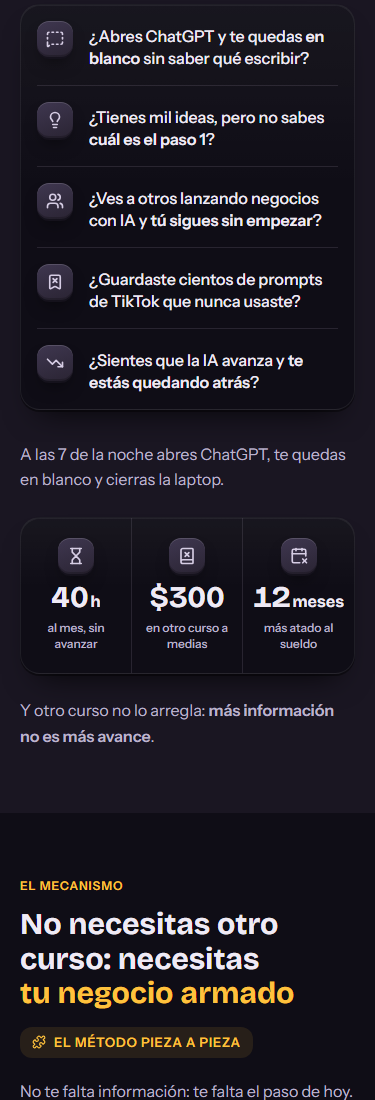
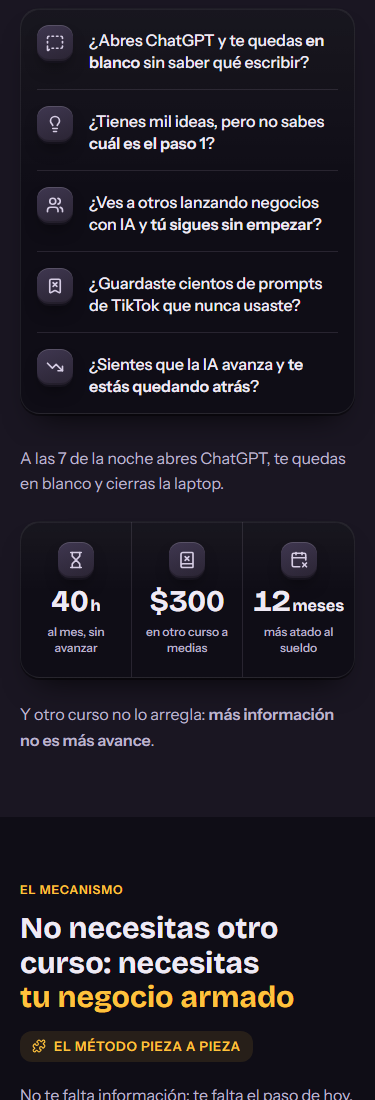
fix(landing): ancla de 1 línea, garantía sin repetir, feedback al toque, camino de nodos, fichas con radio de la ficha

diff --git a/components/landing/Solucion.tsx b/components/landing/Solucion.tsx
@@ -7,7 +7,7 @@
 // (tupla en el tipo: ni 2 ni 4) + antes/después opcional. Pasos entran
 // escalonados (whileInView + stagger, reduced-motion respetado).
 
-import { motion } from 'motion/react';
+import { motion, useReducedMotion } from 'motion/react';
 import { Check, Puzzle, X } from 'lucide-react';
 import type { LucideIcon } from 'lucide-react';
 import { Accent, CtaButton, IconChip, Kicker, SectionShell, useReveal, VIEWPORT_ONCE } from './ui';
@@ -55,6 +55,7 @@ export function Solucion({
   cta,
   id,
 }: SolucionProps) {
+  const reduce = useReducedMotion();
   warnCopy('Solución → título', tituloMarked, 8);
   warnCopy('Solución → Big Idea', bigIdeaMarked, 30);
   pasos.forEach((p, i) => warnCopy(`Solución → paso ${i + 1}`, p.detalle, 14));
@@ -91,12 +92,18 @@ export function Solucion({
         {/* 3 pasos: filas apiladas en mobile, 3 columnas en desktop */}
         <ol className="relative mt-10 grid grid-cols-1 gap-8 md:grid-cols-3">
           {/* El camino: línea punteada que une los nodos, como el mapa de la Ruta */}
-          <span
-            aria-hidden="true"
-            className="absolute top-6 bottom-6 left-[21px] border-l-2 border-dashed border-[color-mix(in_oklab,var(--accent)_35%,transparent)] md:hidden"
-          />
           {pasos.map((p, i) => (
             <motion.li key={i} variants={item} className="relative flex items-start gap-4 md:flex-col">
+              {i < pasos.length - 1 && (
+                <motion.span
+                  aria-hidden="true"
+                  initial={{ scaleY: reduce ? 1 : 0 }}
+                  whileInView={{ scaleY: 1 }}
+                  viewport={{ once: true, amount: 0.6 }}
+                  transition={{ duration: reduce ? 0 : 0.6, ease: [0.16, 1, 0.3, 1] }}
+                  className="absolute top-12 -bottom-8 left-[21px] origin-top border-l-2 border-dashed border-[color-mix(in_oklab,var(--accent)_40%,transparent)] md:hidden"
+                />
+              )}
               <span aria-hidden="true" className="relative shrink-0">
                 {p.icon ? (
                   <IconChip icon={p.icon} tone={i === pasos.length - 1 ? 'verde' : 'accent'} />

diff --git a/app/page.tsx b/app/page.tsx
@@ -75,7 +75,7 @@ export default function PaginaDeVentas() {
               { icono: MousePointerClick, texto: 'Cancelas en 1 toque' },
             ].map(({ icono: Icono, texto }) => (
               <li key={texto} className="flex flex-col items-center gap-1.5 text-center leading-tight">
-                <span className="relieve-piedra flex size-6 items-center justify-center rounded-full">
+                <span className="relieve-piedra flex size-7 items-center justify-center rounded-[var(--radius-chip)]">
                   <Icono size={13} strokeWidth={2.5} aria-hidden="true" />
                 </span>
                 {texto}
@@ -142,9 +142,9 @@ export default function PaginaDeVentas() {
         tituloMarked="Empieza gratis. Sigue por [acento]$0.22 al día[/acento]"
         trialDias={7}
         stack={{
-          lineas: [{ resultado: 'Mes a mes, un año completo te costaría', valor: '$120' }],
+          lineas: [{ resultado: 'Mes a mes', valor: '$120' }],
           totalTachado: '$120',
-          nota: 'Con el plan anual pagas $79.99 por el año.',
+          nota: 'Con el anual: $79.99',
         }}
         anual={{
           nombre: 'Anual',
@@ -171,9 +171,9 @@ export default function PaginaDeVentas() {
       <Garantia
         nombre="La Garantía de la Primera Oferta"
         condicionMarked="Si en 15 días no tienes [b]tu oferta lista[/b] o no es para ti, te devolvemos todo."
-        pisoLegal="Reembolso gestionado por Hotmart · 15 días"
+        pisoLegal="Reembolso gestionado por Hotmart"
         sellos={[
-          { icon: ShieldCheck, texto: '15 días' },
+          { icon: Wallet, texto: 'Dinero de vuelta' },
           { icon: Mail, texto: 'Solo un correo' },
           { icon: RotateCcw, texto: 'Sin preguntas' },
         ]}

diff --git a/components/landing/Oferta.tsx b/components/landing/Oferta.tsx
@@ -118,7 +118,21 @@ export function Oferta({
 
         {/* Stack de valor Hormozi — ARRIBA de los planes; el tachado es del TOTAL
             del stack (nunca un precio mensual falso inflado — 50 C5) */}
-        {stack && (
+        {stack && stack.lineas.length === 1 && (
+          <motion.p
+            variants={item}
+            className="tarjeta-relieve mx-auto mt-8 max-w-[560px] rounded-[var(--radius-card)] px-5 py-4 text-center text-[16px] text-[var(--text-secondary)]"
+          >
+            {stack.lineas[0]?.resultado}: <span className="tabular-nums line-through">{stack.totalTachado}</span> al año
+            {stack.nota && (
+              <>
+                {' · '}
+                <span className="font-semibold text-[var(--text-primary)]">{stack.nota}</span>
+              </>
+            )}
+          </motion.p>
+        )}
+        {stack && stack.lineas.length > 1 && (
           <motion.div
             variants={item}
             className="tarjeta-relieve mx-auto mt-8 max-w-[560px] rounded-[var(--radius-card)] p-6"

diff --git a/components/landing/Garantia.tsx b/components/landing/Garantia.tsx
@@ -60,7 +60,7 @@ export function Garantia({ nombre, condicionMarked, pisoLegal, icon: Icono = Shi
                       key={i}
                       className="flex flex-col items-center gap-2 rounded-[var(--radius-card)] bg-[color-mix(in_oklab,var(--accent)_10%,transparent)] px-2 py-3 shadow-[inset_0_1px_0_rgb(255_255_255/0.08)]"
                     >
-                      <span className="relieve-oro flex size-7 items-center justify-center rounded-full">
+                      <span className="relieve-oro flex size-7 items-center justify-center rounded-[var(--radius-chip,12px)]">
                         <se.icon size={14} strokeWidth={2.5} aria-hidden="true" />
                       </span>
                       <span className="text-[13px] font-semibold leading-tight text-[var(--text-primary)]">{se.texto}</span>

diff --git a/components/landing/Faq.tsx b/components/landing/Faq.tsx
@@ -71,7 +71,7 @@ export function Faq({ kicker = 'PREGUNTAS', titulo = 'Lo que quizá te estás pr
                   aria-expanded={estaAbierto}
                   aria-controls={panelId}
                   onClick={() => setAbierto(estaAbierto ? null : i)}
-                  className="flex min-h-14 w-full items-center justify-between gap-4 py-4 text-left [touch-action:manipulation]"
+                  className="flex min-h-14 w-full items-center justify-between gap-4 rounded-[var(--radius-card)] py-4 text-left transition-transform duration-100 active:scale-[0.99] [touch-action:manipulation]"
                 >
                   <span className="flex items-center gap-3">
                     {it.icon && <IconChip icon={it.icon} tone={estaAbierto ? 'accent' : 'muted'} size="sm" />}

diff --git a/components/landing/AppPorDentro.tsx b/components/landing/AppPorDentro.tsx
@@ -147,7 +147,7 @@ export function AppPorDentro({
                 onClick={() => irA(i)}
                 aria-label={`Ir a: ${f.label}`}
                 aria-current={activo === i ? 'true' : undefined}
-                className="flex size-11 items-center justify-center [touch-action:manipulation]"
+                className="flex size-11 items-center justify-center transition-transform duration-100 active:scale-125 [touch-action:manipulation]"
               >
                 <span
                   className={`size-2 rounded-full transition-colors duration-200 ${

diff --git a/docs/revisiones/landing-veredicto.md b/docs/revisiones/landing-veredicto.md
@@ -1,85 +1,87 @@
-# VEREDICTO revisor-visual — landing (página de ventas EMPRESAI) · revisión independiente (post-corrección garantía/franjas/cifras)
-Fecha: 2026-09-30 23:30
+# VEREDICTO revisor-visual — landing (página de ventas EMPRESAI) · re-revisión independiente tras corregir 5 defectos
+Fecha: 2026-10-02 10:00
 Screenshot: docs/revisiones/landing-375.png
-Usabilidad: 33/40
-Craft: 16/20
-Copy (si vende): 16/20
-Copy: 16/20
+Usabilidad: 35/40
+Craft: 17/20
+Copy (si vende): 17/20
+Copy: 17/20
 Fidelidad (si hubo referencia): N-A
 Veredicto: NO LISTA
-Top defectos: (1) §6 Oferta repite 3 veces las mismas promesas (stack + anual + mensual) y el stack "12 meses… $120 · Todo incluido en ambos planes" confunde al plan mensual · (2) el chip "el Método Pieza a Pieza" es gemelo del CTA outline del plan mensual y el canto sólido "de botón de juego" se aplica a elementos inertes (sellos, fichas) → parecen tocables y no hacen nada · (3) §9 CTA final es la única sección sin ícono ni elemento en relieve y el PS va en itálica sintética · (4) molde "tarjeta oscura + ficha a la izquierda + texto" repetido en §2, §4 pasos, §4 antes/después y §8, con cabeceras que alternan izquierda/centro sin regla · (5) sin "Entrar" para quien ya compró + rótulo "Ejemplo real" sobre un demo armado
+Top defectos: (1) §6 la caja de ancla se contradice: check de beneficio junto a "te costaría $120" + "Valor total: $̶1̶2̶0̶" tachado en la misma caja · (2) §7 "15 días" aparece 3 veces en la tarjeta de garantía · (3) §8 filas del FAQ y puntos del carrusel sin feedback de toque <150ms · (4) §4 la línea punteada del camino sigue por debajo del nodo 3 · (5) §1 franja y §7 sellos con fichas circulares fuera del sistema de chips de 12px de la ficha
 
 ## Detalle
-USABILIDAD 33/40 — h1:4 h2:4 h3:3 h4:3 h5:3 h6:4 h7:4 h8:2 h9:3 h10:3
-CRAFT 16/20 — jerarquía:3 profundidad:4 identidad:3 movimiento:3 encaje:3
-COPY 16/20 — idea:3 especificidad:3 emoción:3 oferta:3 acción:4 (ningún eje ≤2)
-Gate doble: NO PASA. La usabilidad queda en 33/40 (mínimo 36). El craft llega justo al mínimo: 16/20. Gate de copy: PASA justo (16/20).
-Gate de carga cognitiva: 1 falla, "cero elementos que parezcan interactivos y no hagan nada" (defecto 2). No es sobrecarga crítica.
-Anti-clon: no coincide con "Capítulo". Tampoco con "Umbral": el fondo es violeta-tinta #0F0D16 y no pizarra, el dorado #FFC23D es saturado y no latón, y la fuente es Bricolage y no Archivo.
-CTA héroe vivo: PASA en los 4 puntos.
-- Contraste: #0F0D16 sobre #FFC23D da ≈12:1.
-- Tiene whileTap 0.97 y hover.
-- Nunca está deshabilitado: tiene guard de doble toque y estado lento a los 8 s.
-- Mide 52-56px de alto y ocupa el ancho completo.
-FICHA-ARTE frente a la captura: la paleta, Bricolage/Instrument, el radio de 20px y el CTA en píldora coinciden. Hay un desvío menor: la franja del hero (§1) y los sellos de la garantía usan chips CIRCULARES, y la ficha pide chips de ícono de 10-14px como en el resto de la página.
+USABILIDAD 35/40 — h1:4 h2:4 h3:4 h4:3 h5:3 h6:4 h7:4 h8:3 h9:3 h10:3
+CRAFT 17/20 — jerarquía:3 profundidad:4 identidad:4 movimiento:3 encaje:3
+COPY 17/20 — idea:4 especificidad:3 emoción:3 oferta:3 acción:4 (ningún eje ≤2)
+Gate doble: NO PASA por 1 punto (35/40 < 36). El craft PASA (17/20 ≥ 16). Gate de copy: PASA (17/20).
+Gate de carga cognitiva: 0 fallas.
+- El chip del mecanismo ya es una etiqueta (fondo 10%, radio 12px, ícono Puzzle) y no se confunde con el CTA outline.
+- Los sellos ya no tienen canto.
+- Las fichas tienen canto de 2px.
+Anti-clon: no coincide con "Capítulo" ni con "Umbral". CTA héroe vivo: PASA (≈12:1 · whileTap 0.97 · nunca deshabilitado · 52-56px).
+FICHA-ARTE frente a la captura: la paleta, Bricolage/Instrument, el radio de 20px, el CTA en píldora y la firma de la Ruta (camino de nodos) coinciden. Desvío menor: siguen los chips circulares en §1 y §7.
 Sub-checks de copy:
-- Message-match: N-A (no hay creativo de origen).
-- Garantía nombrada con plazo cerca del CTA de compra: PASA. Es la sección inmediata a los planes y tiene su propio CTA. Pero la tarjeta de plan no la menciona.
-Por qué baja cada punto:
-- h8=2: la oferta ocupa ≈2,4 pantallas. "Nuevas rutas… día 30" ×3, documento descargable ×3, "7 días gratis" ×4 dentro de la sección; en la página va 8 veces.
-- h5=3: "12 meses de misiones" + "Todo incluido en ambos planes".
-- h4=3: cabeceras mixtas, chips circulares y cuadrados, CTAs de 48/52/56px.
-- h3=3: sin "Entrar".
-- Movimiento=3: las filas del FAQ y los puntos del carrusel no dan feedback de toque en menos de 150ms; solo hay rotación y despliegue de 200-280ms. El resto de las baseline está en código, con reduced-motion.
+- Message-match: N-A.
+- Garantía nombrada con plazo cerca del CTA de compra: PASA.
+
+Qué cambió frente a la pasada anterior (33 · 16 · 16):
+- h8 sube 2→3: la oferta bajó de ≈2,4 a ≈1,6 pantallas y el mensual ya no repite la lista.
+- h3 sube 3→4: se acepta que "Entrar" no aparezca mientras /login no exista. Enlazar a un 404 violaría la regla UX 11. Queda pendiente anotado.
+- h4 sigue en 3: chips circulares y cuadrados mezclados, CTAs de 48/52/56px y el check usado como símbolo de costo en el ancla.
+- h5 sigue en 3: el ancla de precio se lee contradictoria (defecto 1).
+- Identidad sube 3→4: el camino de nodos con punteado dorado y el rayo en relieve del cierre son firma propia.
+- Copy-idea sube 3→4: el Método aparece en el subtítulo del hero, en la solución, en el primer bullet del plan anual y en el PS.
+- Movimiento sigue en 3: sin feedback de toque en las filas del FAQ ni en los puntos (Faq.tsx l.68-75 no tiene :active ni whileTap), y el camino de §4 no se dibuja al entrar.
 
 ## ¿El relieve se ve "no plano ni repetitivo"? (pedido de la dueña)
-- (a) NO PLANO: ⚠ CUMPLE CASI TODO.
-  - Tienen relieve: las fichas oro, verde y piedra con cara degradé, luz y canto (§2, §3, §4, §8, §7); las tarjetas con luz de borde y sombra; las secciones que alternan base y elevado; el demo del hero con su ficha dorada; los checks con canto.
-  - Falla: §9 CTA final no tiene ningún ícono ni elemento en relieve, solo texto, botón y PS.
-  - Las 2 frases de §3 flotan como texto plano antes y después de la fila de cifras.
-  - Efecto secundario: el canto sólido es el lenguaje de "botón tocable" (Duolingo). Aplicado a sellos, fichas de dolor y la franja del hero, los elementos inertes parecen botones.
-- (b) NO REPETITIVO: ❌ NO CUMPLE en dos frentes.
-  - Copy: §6 repite las mismas promesas en el stack, en el plan anual y en el plan mensual. En §7, "15 días" aparece 3 veces dentro de la misma tarjeta (condición, sello y piso legal).
-  - Composición: la anatomía "tarjeta oscura redondeada + ficha a la izquierda + texto" se repite en 4 lugares seguidos: §2 lista, §4 pasos, §4 antes/después y §8 FAQ. El ojo lee "la misma tarjeta" a lo largo de ≈4 pantallas.
+- (a) NO PLANO: ✅ CUMPLE. Las 9 secciones con contenido tienen ícono en relieve.
+  - §1: franja y ficha del demo.
+  - §2 y §8: fichas piedra.
+  - §3: cifras.
+  - §4: nodos oro y verde con número.
+  - §6: checks.
+  - §7: escudo grande y sellos.
+  - §9: rayo dorado de 64px.
+  - Las tarjetas tienen luz de borde y sombra, y las secciones alternan base y elevado.
+  - Único residuo: las 2 frases de §3 son texto plano, aceptable como puente narrativo de 2 líneas.
+- (b) NO REPETITIVO: ✅ CUMPLE, con residuo. Ahora cada bloque tiene una composición distinta: tarjeta-lista (§2), fila de cifras (§3), camino vertical de nodos (§4), comparativa (antes/después), carrusel (§5), cajas de precio (§6), sello centrado (§7), acordeón (§8) y cierre centrado con ficha (§9). Residuos de copy:
+  - "$120" dos veces en la caja de ancla.
+  - "15 días" ×3 en la garantía.
+  - "7 días gratis" ×4 en la oferta (badge + CTA por plan, aceptado por la regla del 19).
 
 ## Auditoría de escaneabilidad (mobile 375px)
 | § | Sección | >4 líneas seguidas | Íconos en dolores/beneficios/pasos | "Solo titulares" | Respiro | Cajas/acordeón | Resultado | Qué corregir |
 |---|---|---|---|---|---|---|---|---|
-| 1 | Hero | ✅ no | ✅ franja con 3 fichas | ✅ | ✅ | — | ⚠ | Las fichas de la franja son círculos de 24px (fuera del sistema de chips de 12px de la ficha) y su canto las hace parecer botones. Usar el chip cuadrado de 12px, sin canto. El rótulo "Ejemplo real de una misión" dice "real" sobre un demo armado: cambiarlo a "Ejemplo de una misión". |
-| 2 | Problema | ✅ no | ✅ ficha piedra por pregunta | ✅ | ✅ | ✅ tarjeta-lista | ✅ | Sin kicker (las demás secciones con h2 sí lo tienen). Opcional: "TE PASA ESTO". |
-| 3 | Agitación | ✅ no | ✅ 3 cifras con ícono | ✅ (sin título propio, se apoya en §2) | ✅ | ✅ fila en caja | ⚠ | Las 2 frases sueltas son texto plano. Poner la escena de las 7 PM con una ficha (Clock/Moon piedra) o como cita con borde. Las cifras van en blanco y docs/copy/landing.md dice "número en dorado": alinear el doc o el código. |
-| 4 | Solución | ✅ no (big idea en 3 líneas) | ✅ pasos con ficha y número | ✅ | ✅ | ✅ tarjetas | ⚠ | El chip del mecanismo en píldora con borde dorado es igual al CTA secundario y no es tocable. Los pasos y el antes/después repiten el molde de §2 y §8. Pasos como línea de tiempo vertical conectada (nodos de la Ruta, firma de la ficha). |
-| 5 | App por dentro | ✅ no | n/a | ✅ | ✅ | carrusel manual con puntos | ✅ | — |
-| 6 | Oferta | ✅ no | ✅ checks custom | ✅ | ✅ | ✅ stack + 2 planes en cajas | ❌ | ≈2,4 pantallas con las mismas promesas 3 veces. Quitar el stack o reducirlo a 1 línea de ancla. Plan mensual compacto: "Todo lo del anual" + "Cancelas en 1 toque". Corregir "12 meses… / ambos planes". |
-| 7 | Garantía | ✅ no (condición en 2 líneas) | ✅ sellos con ficha | ✅ | ✅ | ✅ caja con hairline | ⚠ | "15 días" aparece 3 veces en la misma tarjeta. Sello 1 → "Dinero de vuelta"; piso legal → "Reembolso gestionado por Hotmart". Los sellos en baldosas con canto parecen tocables. |
-| 8 | FAQ | ✅ no | ✅ ficha por objeción | ✅ | ✅ | ✅ acordeón (1.º abierto) | ⚠ | Feedback de toque <150ms en la fila (:active con fondo o escala 0.99). Mismo molde que §2/§4. |
-| 9 | CTA final + PS | ⚠ PS de 4 líneas en itálica | ❌ ningún ícono | ✅ | ✅ | — | ❌ | Agregar el rayo dorado (relieve-oro lg) sobre el h2 o un mini-resumen de 4 piezas con checks. La itálica es sintética porque Instrument Sans no carga style italic: cargarla o quitar la itálica. |
-| 10 | Footer | ✅ | n/a | ✅ | ✅ | — | ✅ | Email provisional: es una decisión ya tomada, no se puntúa. |
+| 1 | Hero | ✅ no | ✅ franja con 3 fichas | ✅ | ✅ | — | ⚠ | Las fichas de la franja son círculos: pasarlas al chip de 12px de la ficha (`rounded-[var(--radius-chip)]`) |
+| 2 | Problema | ✅ no | ✅ ficha piedra por pregunta | ✅ (kicker "EL PROBLEMA") | ✅ | ✅ tarjeta-lista | ✅ | — |
+| 3 | Agitación | ✅ no | ✅ 3 cifras con ícono | ✅ | ✅ | ✅ fila en caja | ✅ | Opcional: la escena de las 7 PM como cita con borde para no dejarla en texto plano |
+| 4 | Solución | ✅ no (big idea en 3 líneas) | ✅ nodos con ícono y número | ✅ | ✅ | camino de nodos + 2 cajas | ⚠ | La línea punteada pasa el centro del nodo 3: terminarla en el nodo (segmentos entre nodos, o bottom igual al alto del último li menos 22px) |
+| 5 | App por dentro | ✅ no | n/a | ✅ (ahora a la izquierda) | ✅ | carrusel manual con puntos | ✅ | — |
+| 6 | Oferta | ✅ no | ✅ checks custom | ✅ | ✅ | ✅ ancla + 2 planes en cajas | ⚠ | La caja de ancla se contradice (defecto 1) |
+| 7 | Garantía | ✅ no (condición en 2 líneas) | ✅ escudo + sellos | ✅ | ✅ | ✅ caja con hairline | ⚠ | "15 días" ×3 (defecto 2); sellos circulares (defecto 5) |
+| 8 | FAQ | ✅ no | ✅ ficha por objeción | ✅ | ✅ | ✅ acordeón (1.º abierto) | ⚠ | Feedback de toque <150ms en la fila (defecto 3) |
+| 9 | CTA final + PS | ✅ PS en 4 líneas, ya sin itálica | ✅ rayo en relieve de 64px | ✅ | ✅ | — | ✅ | — |
+| 10 | Footer | ✅ | n/a | ✅ | ✅ | — | ✅ | Email provisional: decisión ya tomada, no se puntúa |
 
-## Top defectos (priorizados)
-1. **[§6 Oferta: stack + tarjetas Anual/Mensual]** La sección dice lo mismo 3 veces.
-   - "Nuevas rutas… día 30" ×3, el documento descargable ×3, "7 días gratis" ×4.
-   - Ocupa ≈2,4 pantallas.
-   - El stack "12 meses de misiones diarias con IA · $120" junto a "Todo incluido en ambos planes" hace creer al del plan mensual que recibe 12 meses.
-   - El mecanismo bautizado no aparece en la oferta.
-   - Por eso h8=2, h5=3 y copy-oferta=3.
-   - Fix: el stack pasa a una sola línea de ancla bajo el título ("Mes a mes serían $120 al año — el anual: $79.99"). La tarjeta Mensual muestra "Todo lo del plan anual" + "Cancelas en 1 toque, cuando quieras". El plan Anual nombra "Método Pieza a Pieza" en su primer bullet.
-2. **[§4 chip "el Método Pieza a Pieza" + §7 sellos + §1 franja del hero]** Hay elementos que parecen interactivos y no hacen nada (gate cognitivo).
-   - El chip del mecanismo es una píldora con borde dorado, idéntica al CTA outline "Empezar mis 7 días gratis" del plan mensual.
-   - Los sellos y las fichas inertes llevan el canto sólido de botón (`0 3px 0 var(--canto)`).
-   - Fix: el chip del mecanismo pasa a etiqueta: fondo acento 10%, radio 12px, sin borde en píldora, con un ícono Puzzle. El canto sólido se reserva para lo tocable (CTA, nodos); lo inerte queda con luz superior + sombra difusa, sin canto.
-3. **[§9 CTA final]** Es la única sección sin ícono ni elemento en relieve, y rompe el pedido (a) de la dueña. Además el PS va en itálica falsa porque la fuente no carga la variante italic.
-   - Fix: poner una ficha `relieve-oro` lg con el rayo (Zap) sobre "Imagina tu día 30", o 4 mini-fichas "oferta · nombre · precio · textos" con check verde. PS sin itálica, o cargar `style: ['normal','italic']` en Instrument_Sans.
-4. **[Cabeceras de sección + molde de tarjeta]** El ritmo es repetitivo (pedido b) y las cabeceras no siguen una regla de alineación.
-   - Cabeceras a la izquierda en §2, §4 y §8; centradas en §5, §6, §7 y §9.
-   - Kicker solo en 4 de 7 secciones.
-   - La misma tarjeta "ficha + texto" en §2, §4 (pasos y antes/después) y §8.
-   - Fix: una regla única (izquierda para las secciones de lista, centro solo para hero, oferta, garantía y CTA final). Rediseñar los pasos de §4 como camino vertical de 3 nodos conectados, con la firma de la Ruta de la ficha.
-5. **[Header del hero + rótulo del demo]** No hay "Entrar" para quien ya compró y vuelve por "/" (h3=3). "Ejemplo real de una misión" afirma "real" sobre un demo armado.
-   - Fix: pasar `loginHref` (enlace terciario de 13px a la derecha) y cambiar el rótulo a "Ejemplo de una misión".
+## Top defectos (priorizados — corregir los 3 primeros alcanza para pasar el gate)
+1. **[§6 caja de ancla, sobre los planes]**
+   - Problema: se lee "✓ Mes a mes, un año completo te costaría $120" y, debajo, "Valor total: $̶1̶2̶0̶". El mismo número aparece afirmado y tachado en la misma caja. El check (símbolo de beneficio) acompaña un costo. Por eso h4=3, h5=3 y copy-oferta=3.
+   - Fix: en el caso de 1 sola línea, que Oferta.tsx no pinte CheckCustom ni "Valor total". Dejar una línea sin check: "Mes a mes: $̶1̶2̶0̶ al año · Con el anual: **$79.99**".
+2. **[§7 tarjeta de garantía]**
+   - Problema: "15 días" se lee 3 veces (condición, sello 1 y piso legal).
+   - Fix: el sello 1 pasa a "Dinero de vuelta" (ícono Wallet o BadgeDollarSign) y el piso legal a "Reembolso gestionado por Hotmart".
+3. **[§8 filas del FAQ + puntos del carrusel §5]**
+   - Problema: no hay respuesta táctil inmediata. Solo hay rotación y despliegue de 200-280ms.
+   - Fix: en el botón de fila, `active:scale-[0.99] active:bg-white/[0.03] transition-transform duration-100`. En el punto activo, escala 1.25 al tocar.
+4. **[§4 camino de nodos]**
+   - Problema: el punteado sigue por debajo del nodo 3 y queda colgando.
+   - Fix: pintar 2 segmentos entre los centros de los nodos (o calcular `bottom` con la altura del último paso). Para el eje de movimiento: dibujar el trazo al entrar (`scaleY` 0→1 con origin-top, 600ms, reduced-motion = estático).
+5. **[§1 franja del hero + §7 sellos]**
+   - Problema: las fichas son circulares (`rounded-full`) y la ficha pide chips de ícono de 10-14px como en el resto de la página.
+   - Fix: usar `rounded-[var(--radius-chip)]` en las dos.
 
-## Defectos secundarios
-- Las cifras de §3 van en text-primary, pero el doc de copy dice "número en dorado". Hay que alinear uno de los dos.
-- "12meses": el sufijo con ml-0.5 queda casi pegado al número. Usar un espacio fino (ml-1).
-- En la tarjeta Anual se apilan 3 líneas pequeñas casi del mismo tamaño (13 / 12 / 16px dorado): "menos de $0.22 al día", "Se cobra $79.99/año", "4 meses gratis". Fundir "Se cobra $79.99/año · menos de $0.22 al día" en una sola línea.
-- La garantía de 15 días no aparece dentro de las tarjetas de plan. Sumar al microcopy de compra: "· Garantía de la Primera Oferta, 15 días".
+## Pendientes anotados (no puntúan)
+- "Entrar" en el header: incorporarlo cuando exista /login.
+- Capturas reales del carrusel en la Sesión 5.
+- Verificar el claim "no se usa para entrenar IA" con el proveedor.
+- Email de soporte con el dominio propio.

diff --git a/docs/copy/landing.md b/docs/copy/landing.md
@@ -64,7 +64,7 @@
 
 ## 6. OFERTA (FICHA-MERCADO: $9.99/mes · $79.99/año · trial 7 días)
 - título: `Empieza gratis. Sigue por [acento]$0.22 al día[/acento]` (7)
-- stack = UNA línea de ancla (revisor 2026-09-30: el stack de 3 líneas repetía las features): `Mes a mes, un año completo te costaría` $120 · tachado $120 · nota `Con el plan anual pagas $79.99 por el año.`
+- ancla de UNA línea (sin check ni "Valor total"): `Mes a mes: ~~$120~~ al año · Con el anual: $79.99`
 - features anual: `El Método Pieza a Pieza: una misión de 5 minutos al día` · `La IA arma cada pieza con tu negocio` · `Todo guardado en Mi Empresa, listo para descargar` · `Nuevas rutas cada mes después del día 30`
 - features mensual: `Todo lo del plan anual` · `Pagas mes a mes` · `Cancelas en 1 toque, cuando quieras`
 - microcopy de compra (objeción #5 + VoC "al mes te sorprenden"): `Pagas seguro por Hotmart · te avisamos antes del primer cobro · cancelas en 1 toque`
@@ -73,10 +73,10 @@
 - mensual: $9.99/mes · `menos de $0.34 al día`
 
 ## 7. GARANTÍA
-- sellos: `15 días` · `Solo un correo` · `Sin preguntas`
+- sellos: `Dinero de vuelta` · `Solo un correo` · `Sin preguntas` ("15 días" vive solo en la condición)
 - nombre: `La Garantía de la Primera Oferta` (título; en medio de frase va en minúscula)
 - condición (INCONDICIONAL, coherente con "Sin preguntas" y /reembolsos — decidido 2026-09-30): `Si en 15 días no tienes [b]tu oferta lista[/b] o no es para ti, te devolvemos todo.`
-- piso legal: `Reembolso gestionado por Hotmart · 15 días` (⚠ configurar Hotmart a 15 días en Sesión 6 ANTES de publicar)
+- piso legal: `Reembolso gestionado por Hotmart` (⚠ configurar Hotmart a 15 días en Sesión 6 ANTES de publicar)
 
 ## 8. FAQ (objeciones de la ficha, en orden de fuerza)
 1. `¿No puedo encontrar estos prompts gratis en internet?` → `Los prompts sueltos no se conectan. Aquí la IA usa [b]todo lo que ya armaste[/b] para la pieza de hoy.`

diff --git a/ESTADO.md b/ESTADO.md
@@ -134,7 +134,7 @@ Monetización: suscripción (mensual + anual) con prueba corta. Venta por Hotmar
 - Verificar en Sesión 6: período gratuito Hotmart para app externa · checkout real (medios de pago) · términos de datos del proveedor de IA.
 
 ## Problemas conocidos
-- landing veredicto NO LISTA (revisor nuevo 2026-10-02): sus 5 defectos ya corregidos y re-capturados (landing-375-parte-0…7.png, 375x7789); re-veredicto EN CURSO.
+- landing veredicto NO LISTA (revisor nuevo, 2ª nota 35/40 · 17/20 · 17/20, 2026-10-02): sus 5 defectos corregidos y re-capturados (landing-375-parte-0…6.png, 375x7672); 3er re-veredicto EN CURSO.
 - Garantía: decidida INCONDICIONAL (15 días, "o no es para ti") — coherente con sellos y /reembolsos (2026-10-02).
 - FICHA-MODELO.md en BORRADOR (modelo: Coursiv). Falta 2ª señal de revenue (Meta Ads Library / TrustMRR) y el plano del flujo de entrada de Coursiv (Meta Ads Library y Mobbin requieren navegador; se intentará en Sesión 2 con el navegador integrado). No bloquea diseño/arquitectura.
 - audit-conversion.sh: se excluyó `plantillas-codigo/` en scripts/lib-conversion.mjs (mezclaba tokens de plantilla con los del proyecto → contrastes falsos). Hallazgos restantes son FALSOS POSITIVOS sobre código del kit (cuenta clases/comentarios como copy; no detecta hairline/radial armados con strings concatenados; "animate" como voseo; ✓ en un comentario). Verificado visualmente y por el revisor. Antes: escaneaba `plantillas-codigo/` (plantillas de referencia del SO, no son la app) → sus hallazgos ahí son ruido. Al construir, juzgar solo los hallazgos en los archivos de la app.
